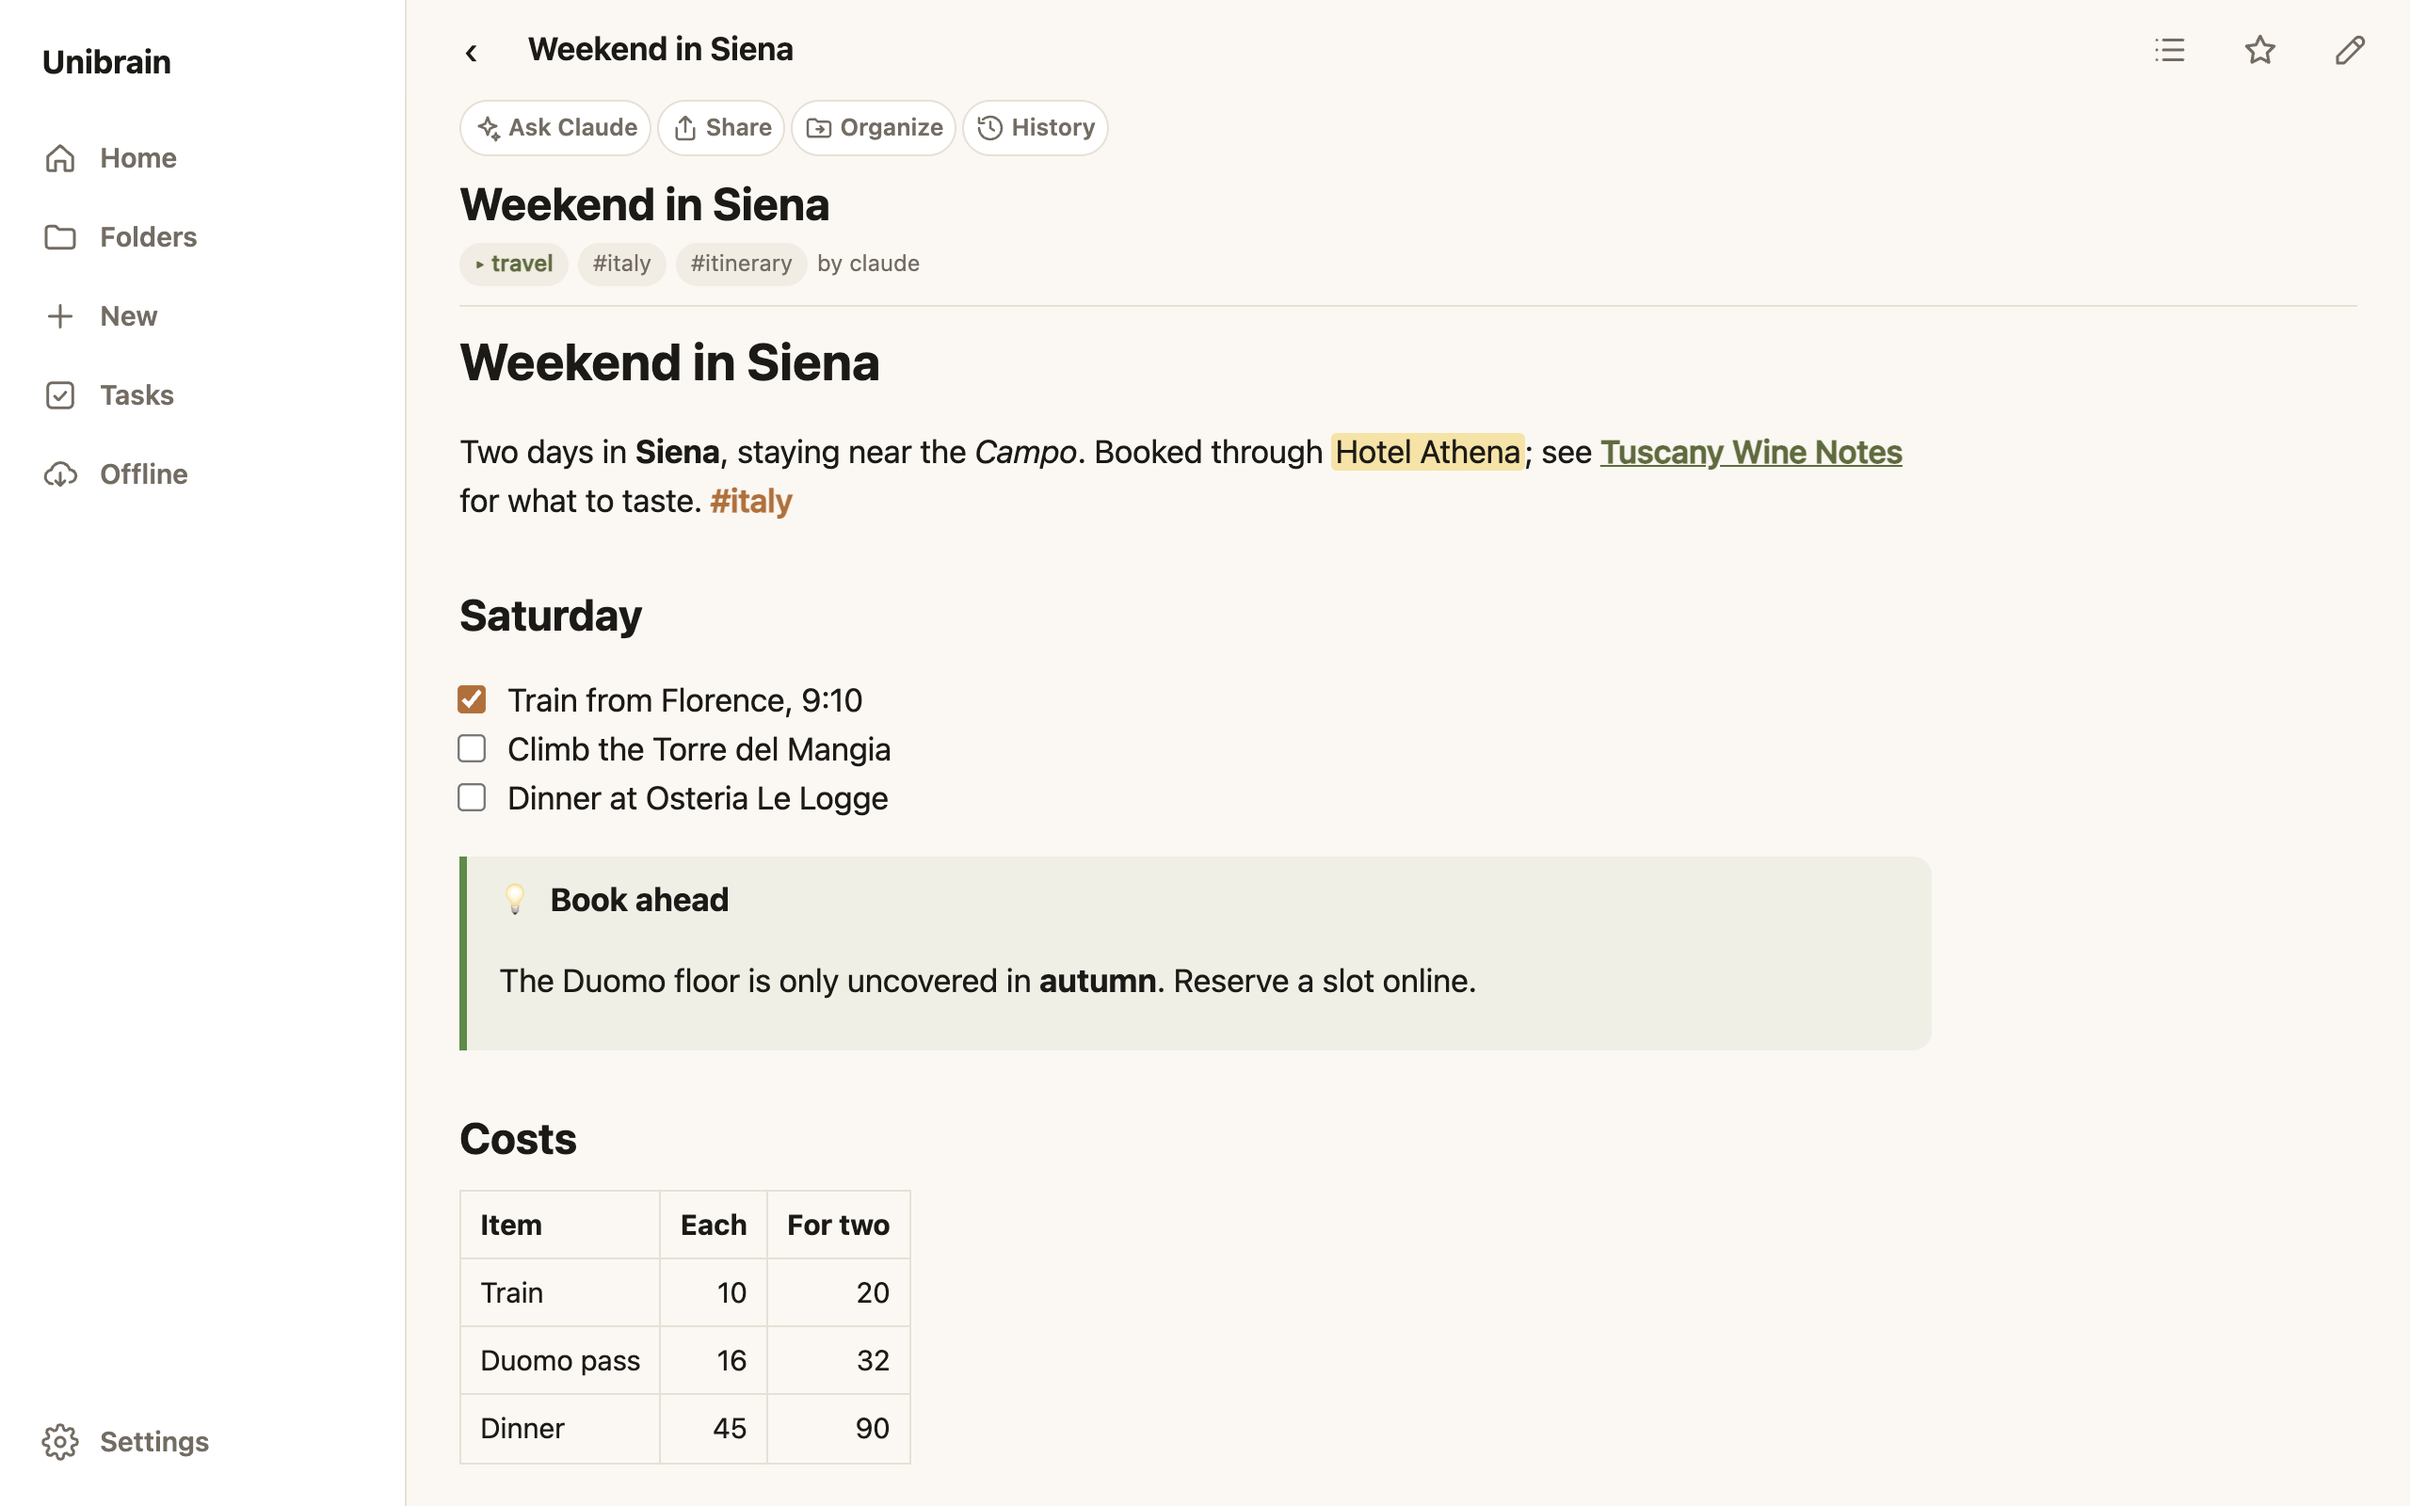
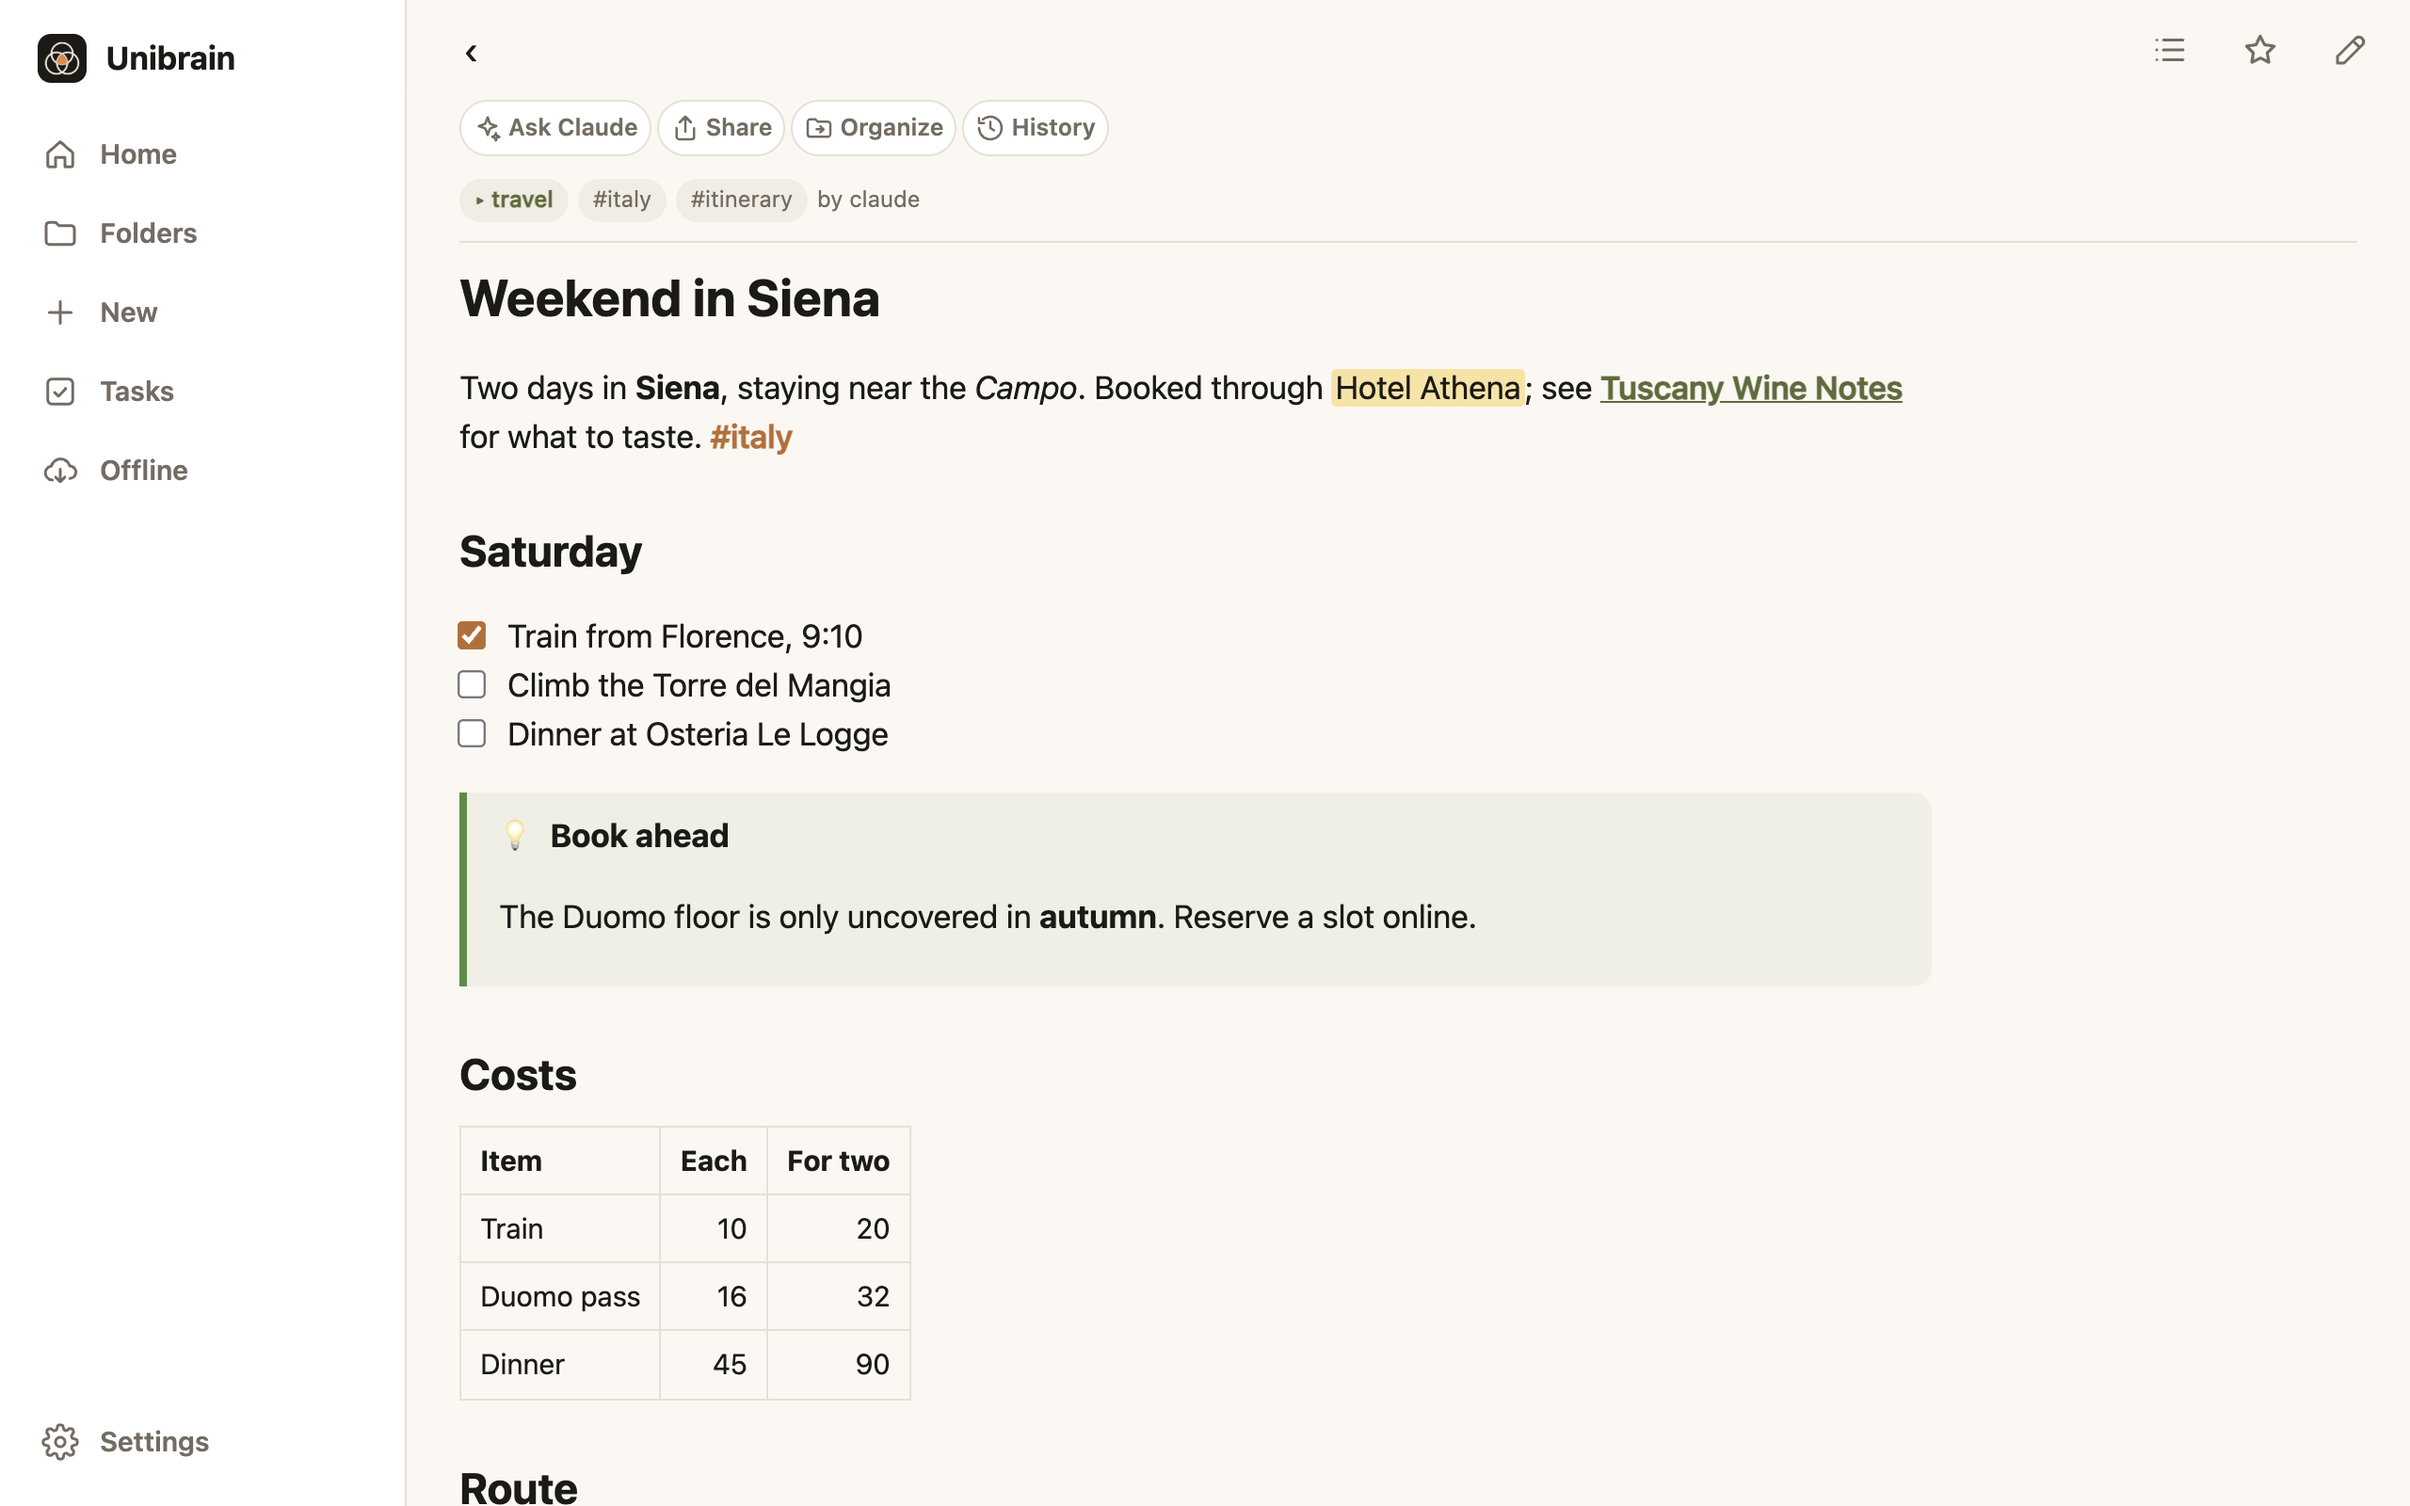
The web app on a computer: headings, list widths, retaken screenshots

diff --git a/docs/features/web-app.md b/docs/features/web-app.md
@@ -34,6 +34,8 @@ The web app is where you **read, review and write**: what your agents saved, and
 In a wide window (about 1000 pixels and up: a laptop, or a tablet on its side) the app rearranges itself:
 
 - **The tab bar becomes a sidebar** down the left, with Home, Folders, New, Tasks and Offline, plus Agents (if [mission control](mission-control.md) is on) and Settings.
+- **Less repetition.** Home, Folders, Tasks and Settings show a plain heading instead of a bar with a back arrow, and a note's title appears once.
+- **Lists keep a comfortable width**: folders become a grid of cards, and Home puts your favorites in a column beside the recent notes.
 - **Pages are wider.** In a note, text keeps a comfortable line length while tables, code, diagrams and pictures use the full width, so wide tables stop scrolling sideways.
 - **The editor can show a preview beside the text**: see [Writing](editor.md#on-a-computer).
 
